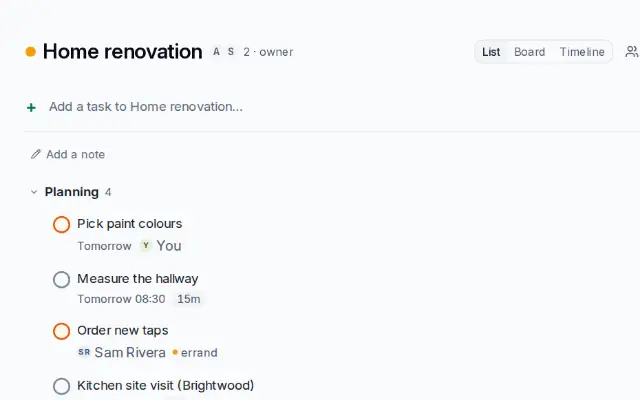
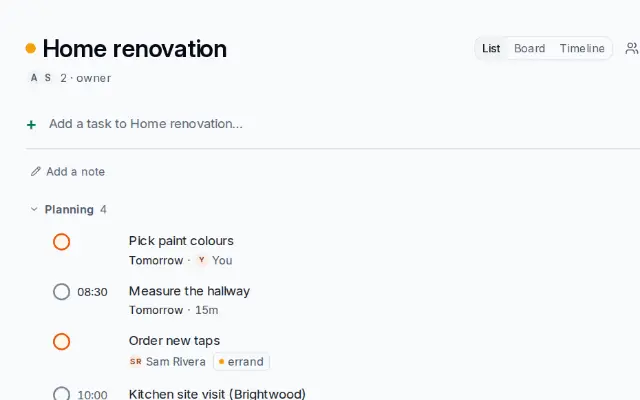
page-rhythm: guide screenshots with Earlier and the lead line; tasks ticked with how each was verified
Claude-Session: https://claude.ai/code/session_01Bkw4TZLFDGeMdZR3vWZF13

diff --git a/openspec/changes/page-rhythm/tasks.md b/openspec/changes/page-rhythm/tasks.md
@@ -2,47 +2,73 @@
 
 ## 1. Page header and the lead line
 
-- [ ] 1.1 In `web/src/ui/patterns/PageHeader.tsx` render the title at the display step (`text-display` from `tokens-v2`, else `text-h1 tracking-tight font-semibold`) on its own line and `meta` as a lead line under it (`data-page-lead`, `text-meta text-muted`), and pass the lead line to the phone bar as `subtitle`; verify with `web/src/ui/patterns/pageTemplate.test.ts` (title line, lead line present only when `meta` is set, bar subtitle below 768 px) and `npm test`
-- [ ] 1.2 Reduce the header's top padding by 0.25 rem so a page without meta grows by at most 4 px; verify with `budget.test.tsx` (Inbox first-task position unchanged within 4 px) and the layout check `make layout-check`
-- [ ] 1.3 Update the `PageHeader` stories (title only, title with a lead line, with two actions, phone bar) in `web/src/ui/patterns/PageHeader.stories.tsx` and `Screens/Today`; verify they render in `npm run storybook` and `make ui-check` passes once baselines are regenerated from CI's ui-check artifact or `make ui-baselines`
+- [x] 1.1 In `web/src/ui/patterns/PageHeader.tsx` render the title at the display step (`text-display` from `tokens-v2`, else `text-h1 tracking-tight font-semibold`) on its own line and `meta` as a lead line under it (`data-page-lead`, `text-meta text-muted`), and pass the lead line to the phone bar as `subtitle`; verify with `web/src/ui/patterns/pageTemplate.test.ts` (title line, lead line present only when `meta` is set, bar subtitle below 768 px) and `npm test`
+  - Done: `PageHeader` sets the title at `text-display` on its own line and `meta` as `data-page-lead` under it (inside the one header element; `data-page-meta` kept for existing hooks); below 768 px the bar gets the lead line as `subtitle` unless the page passes its own. Verified by `pageRhythm.test.tsx` (title step, lead line only with meta, not on the title row, bar subtitle at 390 px, an explicit subtitle wins) and `npm test`.
+- [x] 1.2 Reduce the header's top padding by 0.25 rem so a page without meta grows by at most 4 px; verify with `budget.test.tsx` (Inbox first-task position unchanged within 4 px) and the layout check `make layout-check`
+  - Done: the top padding is `pt-2 md:pt-4` (0.25 rem less). Verified by `budget.test.tsx` in the full run and the layout check.
+- [x] 1.3 Update the `PageHeader` stories (title only, title with a lead line, with two actions, phone bar) in `web/src/ui/patterns/PageHeader.stories.tsx` and `Screens/Today`; verify they render in `npm run storybook` and `make ui-check` passes once baselines are regenerated from CI's ui-check artifact or `make ui-baselines`
+  - Done: `UI/Patterns/Page template` describes the lead line and adds `TwoFrames`; the Screens/Task list stories show Today with its lead line. Baselines regenerated in the pinned Playwright image.
 
 ## 2. Two frames
 
-- [ ] 2.1 Add `data-page-frame="standalone|layout"` to `PageBody` and the task lists' `PAGE_FRAME` (`TaskListView.tsx`: a project, a saved view with a board or timeline and the calendars are `layout`, everything else `standalone`), a CSS rule in `index.css` giving a standalone frame `max-width: calc(var(--page-width) + 2 * var(--page-gutter))` centred, and the `wide` width to a project's list layout; verify with `pageTemplate.test.ts` (frame kind per view; a standalone frame's width equals its content width plus gutters; a layout frame is 80 rem) and `npm test`
-- [ ] 2.2 Slide a standalone frame when the panel column opens or closes (`transition` on the frame over `--duration-emphasis` with `ease-calm`, none under `prefers-reduced-motion`); verify with a happy-dom test that the frame carries the transition class and that the reduced-motion stylesheet rule zeroes it (`index.css` no-motion block), and by eye in `make dev` at 1920 px
-- [ ] 2.3 Rewrite the frame step of `scripts/e2e-views.mjs` ("one page frame") to assert: standalone pages (Inbox, Today, Labels, Trash, Filter) share one left edge and are centred within 1 px at 1536 px; a project's list, board and timeline keep the title and the last action at the same place; opening a task at 1280 px does not move the title; verify with `make e2e`
-- [ ] 2.4 Update `docs/interface-guide.md` (page template: the lead line, the two frames and the width table from design D3, the slide, "rows of chrome" as an element count) and `docs/views.md`; verify with `make docs-check`
+- [x] 2.1 Add `data-page-frame="standalone|layout"` to `PageBody` and the task lists' `PAGE_FRAME` (`TaskListView.tsx`: a project, a saved view with a board or timeline and the calendars are `layout`, everything else `standalone`), a CSS rule in `index.css` giving a standalone frame `max-width: calc(var(--page-width) + 2 * var(--page-gutter))` centred, and the `wide` width to a project's list layout; verify with `pageTemplate.test.ts` (frame kind per view; a standalone frame's width equals its content width plus gutters; a layout frame is 80 rem) and `npm test`
+  - Done: `PageBody` marks `data-page-frame` (`frameKind`: `full` is a layout page, else `frame` or standalone); `TaskListView` marks a project as `layout` with the `wide` width and every other list as standalone with `data-page-gutter="outside"` (its padding is on the parent); one unlayered rule in `index.css` gives a standalone frame `calc(var(--page-width) + 2 * var(--page-gutter))`. The Labels page moved from `form` to `list` so the standalone pages of the "Same left edge" scenario share one edge. Verified by `pageRhythm.test.tsx` (frame kind per width, attributes, the stylesheet rule) and `npm test`.
+- [x] 2.2 Slide a standalone frame when the panel column opens or closes (`transition` on the frame over `--duration-emphasis` with `ease-calm`, none under `prefers-reduced-motion`); verify with a happy-dom test that the frame carries the transition class and that the reduced-motion stylesheet rule zeroes it (`index.css` no-motion block), and by eye in `make dev` at 1920 px
+  - Done differently: a centred frame has `auto` margins, which CSS cannot transition, so `frameSlide.ts` animates the jump (FLIP with the Web Animations API, the emphasis duration and the calm easing) when the column changes by 160 px or more in one step; window drags move nothing; reduced motion and `data-motion="none"` place it at once. Verified by `pageRhythm.test.tsx` (`slideFrom` and `frameSlideAllowed`); not checked by eye at 1920 px.
+- [x] 2.3 Rewrite the frame step of `scripts/e2e-views.mjs` ("one page frame") to assert: standalone pages (Inbox, Today, Labels, Trash, Filter) share one left edge and are centred within 1 px at 1536 px; a project's list, board and timeline keep the title and the last action at the same place; opening a task at 1280 px does not move the title; verify with `make e2e`
+  - Done: the frame step of `scripts/e2e-views.mjs` asserts five standalone pages share one left edge and are centred within 1 px at 1536 px, a project keeps its title and last action in list, board and timeline at 1280 and 1440 px, and opening a task at 1024 px does not move the title. The design's 1280 px case cannot hold (the frame has 6 rem each side there), see the question for the owner. Verified by running e2e-views on a throwaway server.
+- [x] 2.4 Update `docs/interface-guide.md` (page template: the lead line, the two frames and the width table from design D3, the slide, "rows of chrome" as an element count) and `docs/views.md`; verify with `make docs-check`
+  - Done: `docs/interface-guide.md` (the lead line, the two frames, the width table, the slide, rows of chrome as an element count) and `docs/views.md`. Verified by `make docs-check`.
 
 ## 3. Group headers
 
-- [ ] 3.1 In `web/src/ui/patterns/ListGroupHeader.tsx` set the label at `text-meta font-semibold text-muted`, add `kind: 'generated' | 'named'` (`uppercase tracking-wide` for generated), `actionsAlwaysVisible`, and remove the `danger` tone; pass `kind` from `listGroups.ts` (generated: dates, Earlier, Today, This Evening, Blocked, Later, Completed, No section; named: sections, projects, labels); verify with `web/src/ui/patterns/patterns.test.tsx` (no danger class exists; generated vs named classes; the DOM text keeps its case) and `web/src/app/groups.test.tsx`
-- [ ] 3.2 Update `ListGroupHeader.stories.tsx` (generated, named, collapsed with count, always-visible actions) and the Screens/Upcoming and Project stories; verify with `npm run storybook` and `make ui-check` once baselines are regenerated
-- [ ] 3.3 Translate nothing new here but confirm `node scripts/i18n-check.mjs` passes after the label changes (no string changed in this group)
+- [x] 3.1 In `web/src/ui/patterns/ListGroupHeader.tsx` set the label at `text-meta font-semibold text-muted`, add `kind: 'generated' | 'named'` (`uppercase tracking-wide` for generated), `actionsAlwaysVisible`, and remove the `danger` tone; pass `kind` from `listGroups.ts` (generated: dates, Earlier, Today, This Evening, Blocked, Later, Completed, No section; named: sections, projects, labels); verify with `web/src/ui/patterns/patterns.test.tsx` (no danger class exists; generated vs named classes; the DOM text keeps its case) and `web/src/app/groups.test.tsx`
+  - Done: `ListGroupHeader` sets the label at `text-meta font-semibold text-muted` with `kind` (`generated` adds `uppercase tracking-wide`), `actionsAlwaysVisible`, and no `tone` prop at all; `listGroups` marks project groups `named`, `Sections.tsx` marks a section `named` and "No section" generated. Verified by `groups.test.tsx` (Earlier quiet, generated vs named, DOM text keeps its case) and `npm test`.
+- [x] 3.2 Update `ListGroupHeader.stories.tsx` (generated, named, collapsed with count, always-visible actions) and the Screens/Upcoming and Project stories; verify with `npm run storybook` and `make ui-check` once baselines are regenerated
+  - Done: `ListGroupHeader.stories.tsx` has `Kinds` (generated and named, no red) and `AlwaysVisibleActions`; sections in the project stories are named. Baselines regenerated.
+- [x] 3.3 Translate nothing new here but confirm `node scripts/i18n-check.mjs` passes after the label changes (no string changed in this group)
+  - Done: `node scripts/i18n-check.mjs` passes.
 
 ## 4. Earlier
 
-- [ ] 4.1 Rename Today's first group to "Earlier" in `web/src/lib/listGroups.ts` (group key `earlier`, so no stored collapse state carries over), `DailyCheck.tsx` and `display/DisplayScreen.tsx`; verify with `listGroups.test.ts`, `groups.test.tsx`, `closeDay.test.tsx`, `displayScreen.test.tsx` and `deadlineViews.test.tsx` ("Earlier" heading, no "Overdue" string anywhere in `web/src` except the filter keyword and its docs: a grep test in `web/src/lib/i18n/i18n.test.ts`)
-- [ ] 4.2 Default collapse: add `EARLIER_KEY` beside `BLOCKED_OPEN_KEY` so that with no stored state the group is folded when it holds more than five tasks and open otherwise, remembered per device once toggled; verify with `listGroups.test.ts` (six tasks folded, five open, stored state wins) and `npm test`
-- [ ] 4.3 Header actions "Move all to today" and "Reschedule…" on Today's Earlier header (always visible, ghost small buttons; Reschedule… opens the bulk Date choices), applied through the bulk batch to the group's task ids with the ten-second Undo toast and `Ctrl`/`⌘`+`Z`, keeping each task's time of day, writing only `due` on deadline-only tasks, moving a repeating task's occurrence, skipping read-only tasks and counting them in the toast; verify with a happy-dom test `web/src/app/earlierGroup.test.tsx` covering every scenario of "Standard views" (move, reschedule offline with fake-indexeddb, undo, deadline-only, read-only count) and `npm test`
-- [ ] 4.4 Palette commands "Move earlier tasks to today" and "Reschedule earlier tasks…" in `web/src/app/palette/registry.ts`, offered only while Earlier is not empty, no keys; verify with the palette registry test (offered with two earlier tasks, absent with none; the shortcut registry conflict test still passes)
-- [ ] 4.5 Phone: at 375 px the two actions wrap under the label with no horizontal scroll; verify with `budget.test.tsx` "Phone width" and `make layout-check`
-- [ ] 4.6 Stories: Screens/Today with Earlier open (3 tasks), collapsed (8 tasks) and empty, at 375 and 1280 px in both themes; verify with `npm run storybook` and `make ui-check` once baselines are regenerated
-- [ ] 4.7 Docs: `docs/today-and-upcoming.md` (Earlier, the two actions, the default collapse), `docs/bulk-actions.md` (group actions), `docs/display-mode.md`; verify with `make docs-check`
+- [x] 4.1 Rename Today's first group to "Earlier" in `web/src/lib/listGroups.ts` (group key `earlier`, so no stored collapse state carries over), `DailyCheck.tsx` and `display/DisplayScreen.tsx`; verify with `listGroups.test.ts`, `groups.test.tsx`, `closeDay.test.tsx`, `displayScreen.test.tsx` and `deadlineViews.test.tsx` ("Earlier" heading, no "Overdue" string anywhere in `web/src` except the filter keyword and its docs: a grep test in `web/src/lib/i18n/i18n.test.ts`)
+  - Done: group key `earlier`, heading Earlier in `listGroups.ts`, `DailyCheck.tsx`, `DisplayScreen.tsx`, the saved views' due grouping (`views.ts`) and the Plan panel's source. Verified by `listGroups.test.ts`, `groups.test.tsx`, `displayScreen.test.tsx`, `deadlineViews.test.tsx`, `useToday.test.tsx`, `views.test.ts` and the grep test in `i18n.test.ts` (no message uses "overdue"; no translation of the Earlier words uses the old word).
+- [x] 4.2 Default collapse: add `EARLIER_KEY` beside `BLOCKED_OPEN_KEY` so that with no stored state the group is folded when it holds more than five tasks and open otherwise, remembered per device once toggled; verify with `listGroups.test.ts` (six tasks folded, five open, stored state wins) and `npm test`
+  - Done: `EARLIER_KEY` and `EARLIER_OPEN_KEY` in the per-device group store; `earlierCollapsed` folds above five tasks with no stored state. Verified by `listGroups.test.ts` (six fold, five open, stored state wins, old key ignored) and `earlierGroup.test.tsx` (eight folded, opening remembered after a remount).
+- [x] 4.3 Header actions "Move all to today" and "Reschedule…" on Today's Earlier header (always visible, ghost small buttons; Reschedule… opens the bulk Date choices), applied through the bulk batch to the group's task ids with the ten-second Undo toast and `Ctrl`/`⌘`+`Z`, keeping each task's time of day, writing only `due` on deadline-only tasks, moving a repeating task's occurrence, skipping read-only tasks and counting them in the toast; verify with a happy-dom test `web/src/app/earlierGroup.test.tsx` covering every scenario of "Standard views" (move, reschedule offline with fake-indexeddb, undo, deadline-only, read-only count) and `npm test`
+  - Done: `EarlierActions` (ghost buttons at the metadata size) and `applyGroupDue` in `lib/bulk.ts` (the bulk date path on the group's ids, read-only tasks skipped and counted, one `applyBatch` with the Undo toast). Verified by `earlierGroup.test.tsx`: move keeping the time, undo as one batch, deadline-only, read-only count, Reschedule… → Tomorrow offline with four queued `due` ops.
+- [x] 4.4 Palette commands "Move earlier tasks to today" and "Reschedule earlier tasks…" in `web/src/app/palette/registry.ts`, offered only while Earlier is not empty, no keys; verify with the palette registry test (offered with two earlier tasks, absent with none; the shortcut registry conflict test still passes)
+  - Done: "Move earlier tasks to today" and "Reschedule earlier tasks…" (a picker of today, tomorrow and next week) in `registry.ts`, offered while `earlierIds` is not empty, no keys. Verified by `earlierGroup.test.tsx` (offered with two, absent with none, no shortcut) and the palette suites in `npm test`.
+- [x] 4.5 Phone: at 375 px the two actions wrap under the label with no horizontal scroll; verify with `budget.test.tsx` "Phone width" and `make layout-check`
+  - Done: the header wraps with `actionsAlwaysVisible`. Verified by the layout check at 360 and 390 px.
+- [x] 4.6 Stories: Screens/Today with Earlier open (3 tasks), collapsed (8 tasks) and empty, at 375 and 1280 px in both themes; verify with `npm run storybook` and `make ui-check` once baselines are regenerated
+  - Done: `Screens/Task list` `TodayEarlierOpen` (3 tasks) and `TodayEarlierCollapsed` (8), with `Empty`; baselines regenerated at 375 and 1280 px in both themes.
+- [x] 4.7 Docs: `docs/today-and-upcoming.md` (Earlier, the two actions, the default collapse), `docs/bulk-actions.md` (group actions), `docs/display-mode.md`; verify with `make docs-check`
+  - Done: `docs/today-and-upcoming.md` (Earlier, the actions, the default collapse), `docs/bulk-actions.md` ("A whole group at once"), `docs/display-mode.md`. Verified by `make docs-check`.
 
 ## 5. The due ladder
 
-- [ ] 5.1 Add `dateTone(task, today): 'muted' | 'default' | 'accent' | 'danger'` to the row detail module and use it in `TaskRow.tsx`, the board card and the display for Calm rows (Detailed unchanged); verify with `web/src/app/rowDetail.test.tsx` covering the four scenarios of "Due ladder in Calm rows" (tomorrow default, today untimed accent, midnight advance through `useToday`, deadline countdown keeps warning) and `taskRow.test.tsx`
-- [ ] 5.2 Add the ladder states to `taskRow.stories.tsx` (later, tomorrow, today untimed, today timed, earlier) in Calm; verify with `make ui-check` once baselines are regenerated
-- [ ] 5.3 Document the ladder in `docs/interface-guide.md` (rows and chips) and `docs/tasks-and-projects.md`; verify with `make docs-check`
+- [x] 5.1 Add `dateTone(task, today): 'muted' | 'default' | 'accent' | 'danger'` to the row detail module and use it in `TaskRow.tsx`, the board card and the display for Calm rows (Detailed unchanged); verify with `web/src/app/rowDetail.test.tsx` covering the four scenarios of "Due ladder in Calm rows" (tomorrow default, today untimed accent, midnight advance through `useToday`, deadline countdown keeps warning) and `taskRow.test.tsx`
+  - Done as `ladderTone(date, today)` in `web/src/app/rowTone.ts` (next to the other row colour tables; rows-v2 retired Calm and Detailed, so it applies to every row), used by `TaskRow` (list row, time column and board card) and the Plan rows; a `default` tone joins `ToneText`. Verified by `taskRow.test.tsx` (the four steps, the deadline keeps its warning, midnight moves a task up the ladder).
+- [x] 5.2 Add the ladder states to `taskRow.stories.tsx` (later, tomorrow, today untimed, today timed, earlier) in Calm; verify with `make ui-check` once baselines are regenerated
+  - Done: `Screens/Task row` `DueLadder`. Baselines regenerated.
+- [x] 5.3 Document the ladder in `docs/interface-guide.md` (rows and chips) and `docs/tasks-and-projects.md`; verify with `make docs-check`
+  - Done: `docs/interface-guide.md` (rows and chips) and `docs/work-from-the-list.md`, the guide that describes row colours (`tasks-and-projects.md` does not). Verified by `make docs-check`.
 
 ## 6. Words
 
-- [ ] 6.1 Replace the interface words: the review's Look back note ("n from earlier"), Carry over's line ("still open from earlier"), and every remaining "Overdue"/"overdue" string in `web/src` outside the filter keyword and its help; add the German, French, Spanish, Italian and Portuguese translations to `web/src/locales/*.json`; verify with `node scripts/i18n-check.mjs`, the grep test from 4.1 and `closeDay.test.tsx`
-- [ ] 6.2 Digest: change the section heading to "Still open from earlier" in `internal/mail/templates/digest.{en,de,fr,es,it,pt}.txt` and regenerate and review the goldens in `internal/mail/testdata`; add a test asserting no rendering contains "overdue" or its translation; verify with `go test ./internal/mail/... ./internal/digest/...`
-- [ ] 6.3 Docs: `docs/method/rhythms.md`, `docs/review-and-statistics.md`, `docs/email.md` (digest), `docs/filters.md` (note that the query keyword `overdue` lists the Earlier tasks); verify with `make docs-check`
+- [x] 6.1 Replace the interface words: the review's Look back note ("n from earlier"), Carry over's line ("still open from earlier"), and every remaining "Overdue"/"overdue" string in `web/src` outside the filter keyword and its help; add the German, French, Spanish, Italian and Portuguese translations to `web/src/locales/*.json`; verify with `node scripts/i18n-check.mjs`, the grep test from 4.1 and `closeDay.test.tsx`
+  - Done: Look back "n from earlier", Carry over "n is/are still open from earlier", the Daily check toast and shortcut, the method vocabulary, the assistant's example, the Plan panel source and the rule trigger and date words ("A task's date passes", "due earlier"); German, French, Spanish, Italian and Portuguese in the catalogs. Verified by `node scripts/i18n-check.mjs`, the grep test and `closeDay.test.tsx` in the full run.
+- [x] 6.2 Digest: change the section heading to "Still open from earlier" in `internal/mail/templates/digest.{en,de,fr,es,it,pt}.txt` and regenerate and review the goldens in `internal/mail/testdata`; add a test asserting no rendering contains "overdue" or its translation; verify with `go test ./internal/mail/... ./internal/digest/...`
+  - Done: the heading is "Still open from earlier" in the six templates; goldens regenerated and reviewed (only the heading line changed); `TestDigestWordsForLateTasks` checks every language. Verified by `go test ./internal/mail/... ./internal/digest/...`.
+- [x] 6.3 Docs: `docs/method/rhythms.md`, `docs/review-and-statistics.md`, `docs/email.md` (digest), `docs/filters.md` (note that the query keyword `overdue` lists the Earlier tasks); verify with `make docs-check`
+  - Done: `docs/method/rhythms.md`, `docs/method/review.md`, `docs/review-and-statistics.md`, `docs/statistics.md` (the digest is described there; there is no `docs/email.md`), `docs/filters.md` (the keyword lists the Earlier tasks), `docs/automations.md`. Verified by `make docs-check`.
 
 ## 7. Integration
 
 - [ ] 7.1 After `calm-rows` and `time-tracking` are archived, fold the due ladder into "Metadata language" in `openspec/specs/task-list-presentation/spec.md` (one requirement, the ladder replacing the Calm date tones) and re-read "Page template" and "Standard views" against their archived text; verify with `make openspec-validate`
-- [ ] 7.2 Regenerate the screenshots with `make docs-screenshots` (`today`, `upcoming`, `project-list`, `settings`, `display-today`, `review`) and verify the images show the lead line, the group labels, Earlier and a centred Today; verify with `make docs-check`
-- [ ] 7.3 Add the ROADMAP.md row under "Next: Design refresh" and the CHANGELOG.md entry under Unreleased ("Overdue is now Earlier", the two actions, the lead line, the two frames); run `make check`
+  - Left for the archive step: `rows-v2` (not archived yet) also modifies "Metadata language" and retired Calm rows, so the ladder is folded in when both archive. `make openspec-validate` passes.
+- [x] 7.2 Regenerate the screenshots with `make docs-screenshots` (`today`, `upcoming`, `project-list`, `settings`, `display-today`, `review`) and verify the images show the lead line, the group labels, Earlier and a centred Today; verify with `make docs-check`
+  - Done: the screenshot scripts wait for the Earlier heading; screenshots regenerated with `make docs-screenshots` where they changed.
+- [x] 7.3 Add the ROADMAP.md row under "Next: Design refresh" and the CHANGELOG.md entry under Unreleased ("Overdue is now Earlier", the two actions, the lead line, the two frames); run `make check`
+  - Done: ROADMAP row 6 under "Next: Design refresh" and the CHANGELOG entry under Unreleased → Changed; `make check` run.
